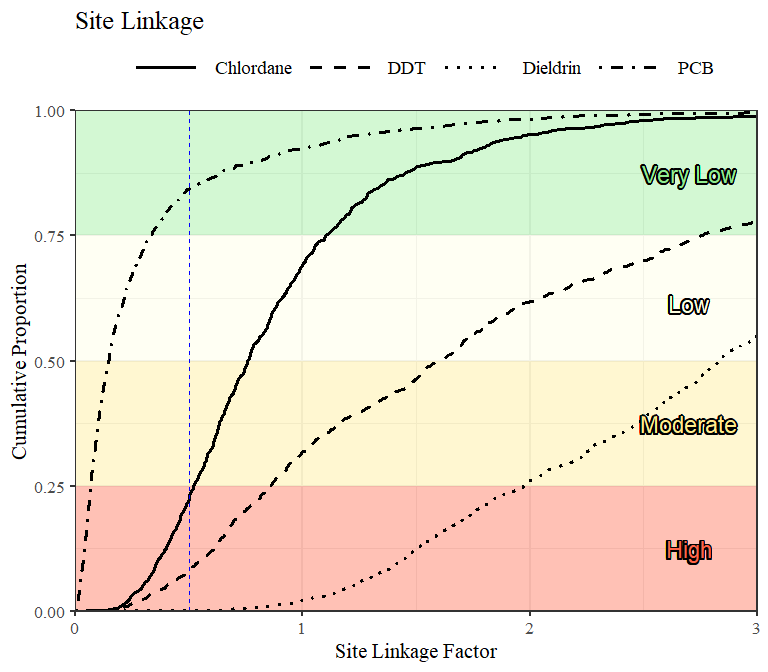
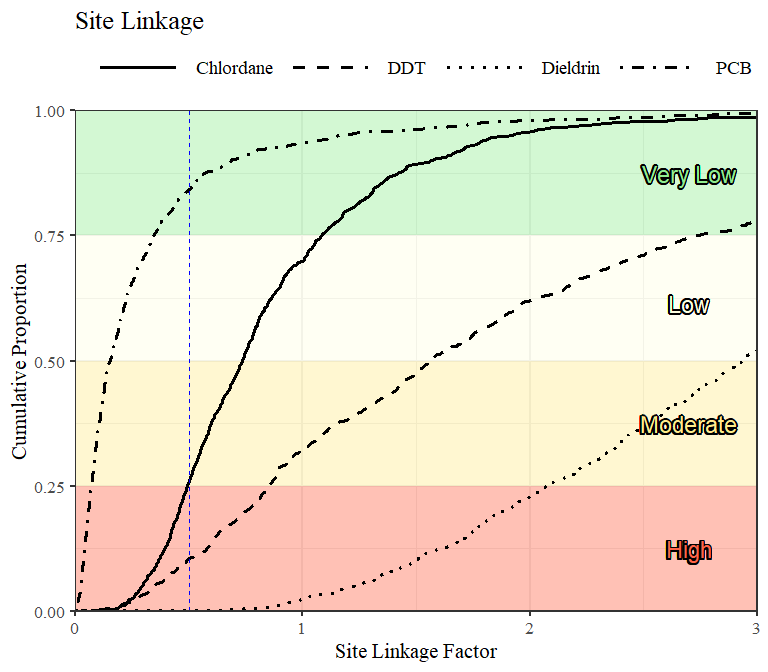
mcs plot legend lines longer

diff --git a/README.md b/README.md
@@ -117,10 +117,10 @@ mcs_sum_fun(mcsres)
     ## # Groups:   Compound [4]
     ##   Compound    `0%`    `1%`   `5%`  `10%`  `25%` `50%` `75%` `90%` `95%`
     ##   <chr>      <dbl>   <dbl>  <dbl>  <dbl>  <dbl> <dbl> <dbl> <dbl> <dbl>
-    ## 1 Chlorda~ 0.0926  0.206   0.297  0.362  0.522  0.758 1.10  1.66   1.97
-    ## 2 DDT      0.109   0.233   0.399  0.553  0.860  1.61  2.76  4.70   6.29
-    ## 3 Dieldrin 0.429   0.877   1.22   1.44   1.97   2.84  4.00  5.44   6.69
-    ## 4 PCB      0.00343 0.00769 0.0216 0.0343 0.0684 0.147 0.331 0.817  1.23
+    ## 1 Chlorda~ 0.139   0.207   0.297  0.367  0.493  0.735 1.09  1.56   1.92
+    ## 2 DDT      0.0800  0.197   0.352  0.493  0.857  1.56  2.74  4.73   6.51
+    ## 3 Dieldrin 0.405   0.900   1.23   1.49   2.08   2.94  4.03  5.49   6.59
+    ## 4 PCB      0.00245 0.00814 0.0237 0.0346 0.0718 0.152 0.346 0.687  1.18
     ## # ... with 2 more variables: `99%` <dbl>, `100%` <dbl>
 
 Plot cumulative distribution curves for
@@ -142,10 +142,10 @@ sqo_sum_fun(wgtavg, mcsres, constants)
     ## # A tibble: 4 x 9
     ##   Compound `Observed tissu~ `Chemical expos~ `Estimated tiss~
     ##   <chr>               <dbl> <chr>                       <dbl>
-    ## 1 Chlorda~             2.28 Very Low                    1.73 
-    ## 2 DDT                  4.85 Very Low                    7.79 
-    ## 3 Dieldrin             0.25 Very Low                    0.710
-    ## 4 PCB                 36.5  Moderate                    5.38 
+    ## 1 Chlorda~             2.28 Very Low                    1.68 
+    ## 2 DDT                  4.85 Very Low                    7.56 
+    ## 3 Dieldrin             0.25 Very Low                    0.734
+    ## 4 PCB                 36.5  Moderate                    5.56 
     ## # ... with 5 more variables: `Site linkage 25%` <dbl>, `Site linkage
     ## #   50%` <dbl>, `Site linkage 75%` <dbl>, `Site linkage category` <chr>,
     ## #   `Site assessment category` <chr>
